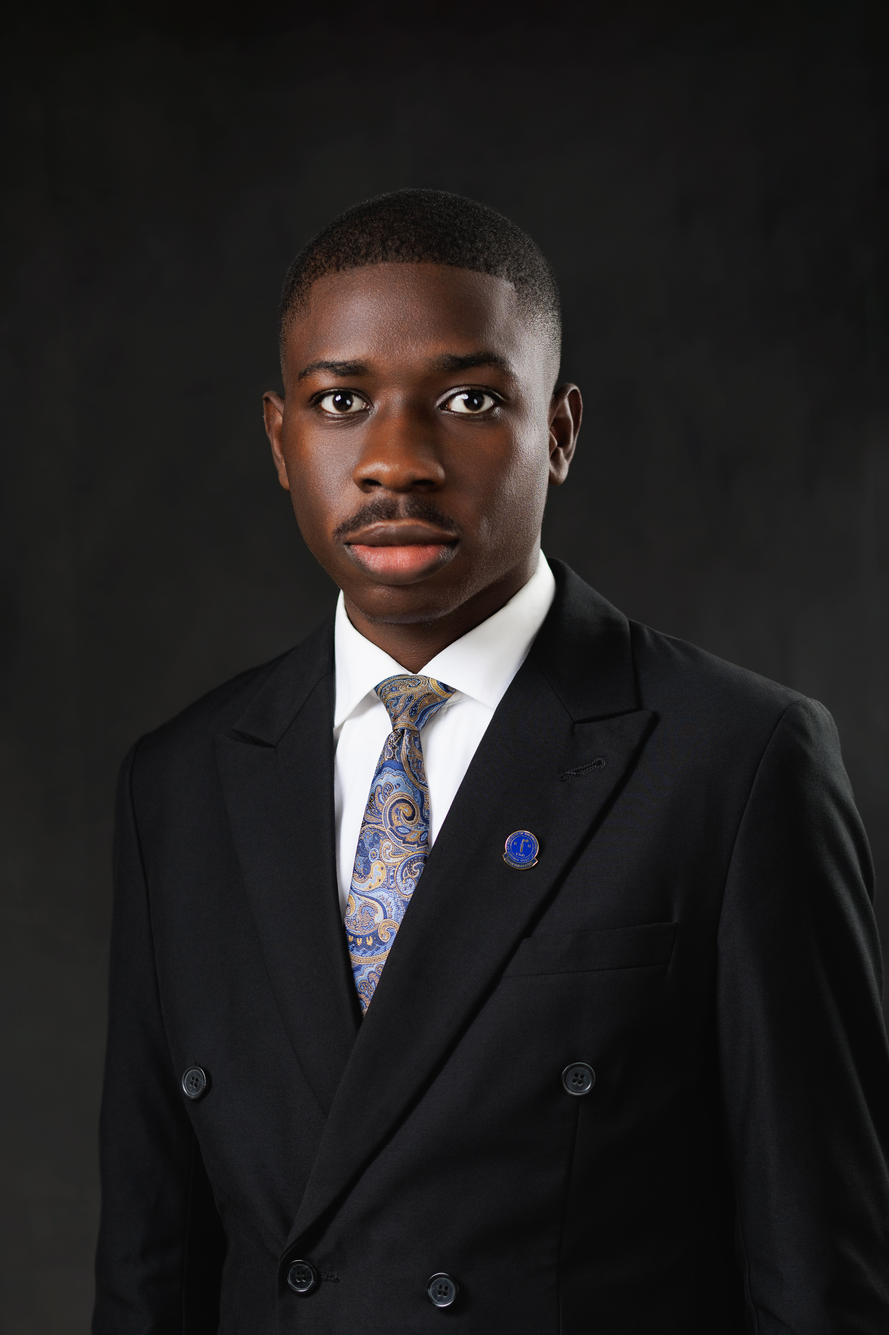
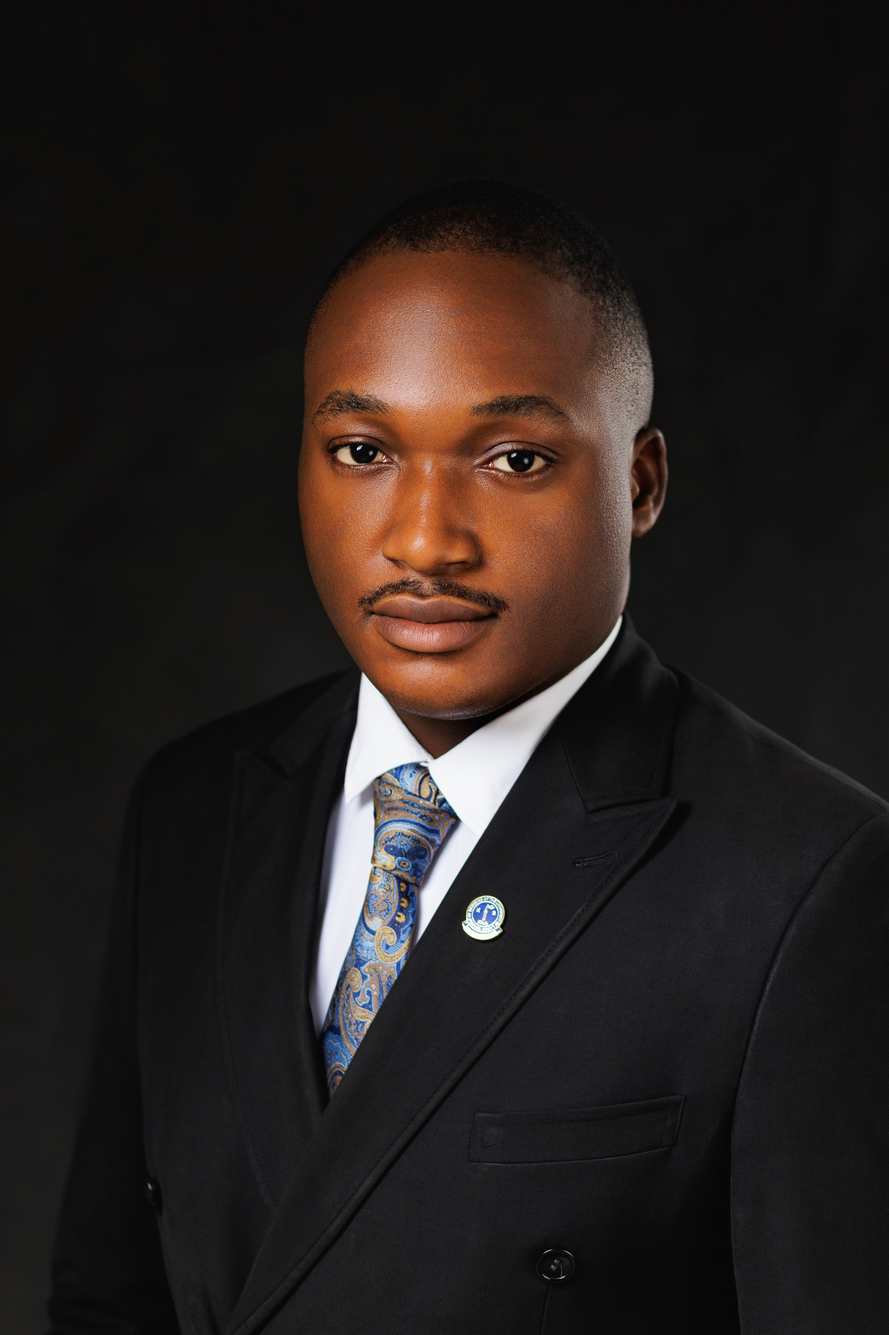
fix: update name for KB Protocol executive in kbites.js

diff --git a/data/kbites.js b/data/kbites.js
@@ -35,7 +35,7 @@ export const kbExecutives = [
     image: kashbiteImage,
   },
   {
-    name: "Oshojah Victor",
+    name: "Safiriyu Kamal",
     title: "KB Protocol (Social Secretary & PRO)",
     image: protocolImage,
   },
